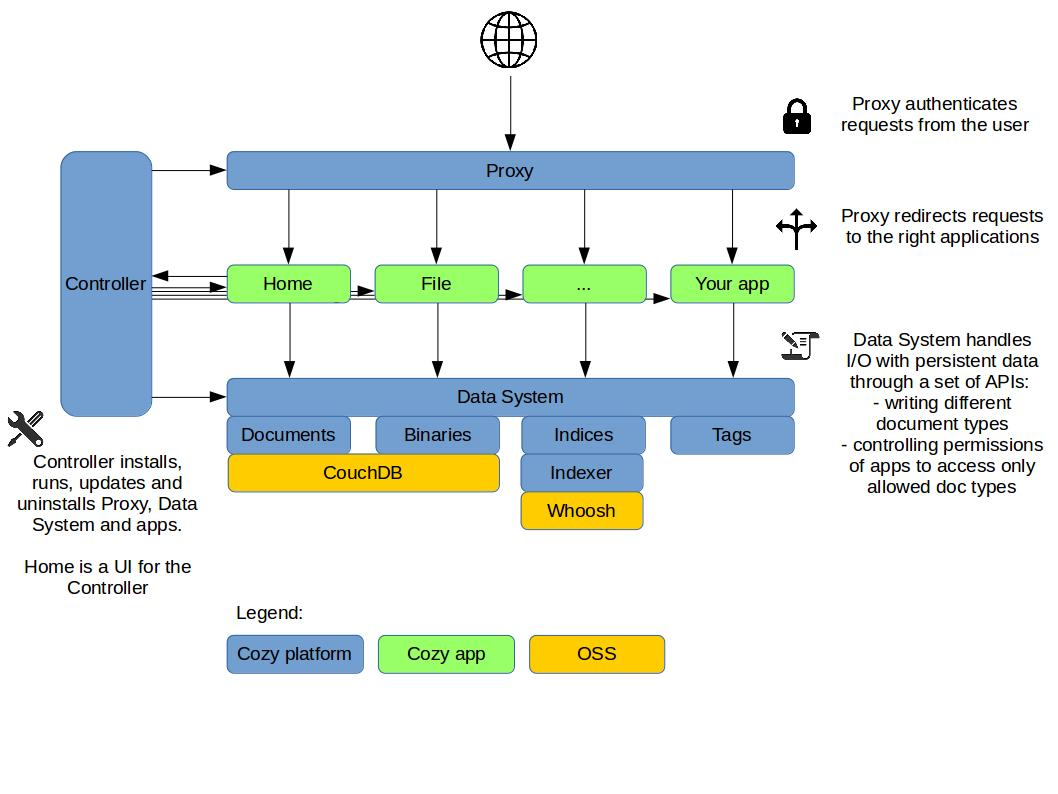
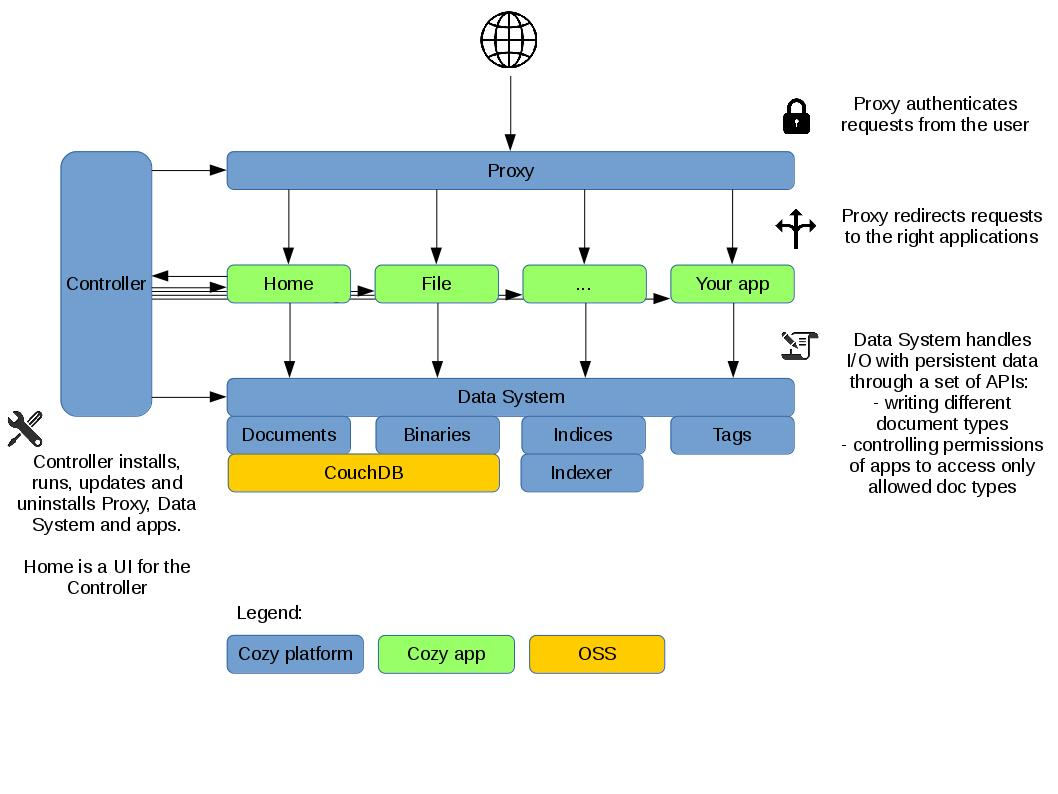
Removed mentions of Whoosh and changed figure colours

diff --git a/source/index.md b/source/index.md
@@ -246,7 +246,7 @@ Personal data is at the core of Cozy, therefore the Data System is the central p
 The Data System is a unified API which consists of:
 - the database itself, CouchDB, where all your personal data and Cozy data is stored as document, each document having a type depending on the data it contains (a contact, an email, a setting)
 - binaries, stored in CouchDB too, that in particular allow to authenticate and authorize requests made by Cozy so that resources (apps for example) can only access the document types they are allowed to access
-- the indexer, a REST wrapper of our own, built around Whoosh
+- the indexer
 
 It is important to emphasize here that the Data System owns the data, and decides whether the requests made by the Cozy platform are allowed or not.
 
@@ -258,7 +258,7 @@ You can find the complete API and details about the Data System on the [dedicate
 
 The personal Platform as a service, or pPaas, is an execution environment for applications collaborating around personal data. It consists mainly of the Controller, which installs, runs, updates and removes applications within Cozy. You can call the Controller using the Home, which is itself an application installed by the Controller. There is also a command line interface, cozy-monitor, that allows you to call the Controller if you have root privileges on your server.
 
-![Making the most of the Data System using applications](images/data-system-applications.jpg)
+![Making the most of the Data System using applications](images/data-system-apps.jpg)
 
 The Controller therefore manages applications. These applications will store their data in the Data System. As we have seen, the Data System, not the application, owns the data. Therefore, when installing or updating an application, the user will be prompted to grant the application access to certain document types. This paradigm enables easy and straightforward collaboration between the applications: granting access to the "Contact" document type to both the Contacts application and the Emails one will allow to send an message in Emails to someone the user will have informed the contact details in Contacts. And this is a common, nearly boring example, but it can be done with any document type and any data!
 
